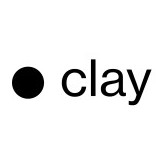
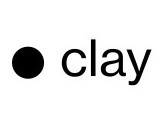
Optimise Images

diff --git a/experience/Netsoc_2019.md b/experience/Netsoc_2019.md
@@ -1,7 +1,7 @@
 ---
 position: "First Year Rep"
 company: "UCC Netsoc"
-company_logo: "UCC_Netsoc.png"
+company_logo: "UCC_Netsoc.jpg"
 dateFrom: "2019-09-01"
 dateTo: "2020-06-01"
 summary: "During my first year in University, I was elected to be the First Year Rep OCM on the committee, in this position I focued on advertising the society to other First Years and making exciting events targeted to other first years. University College Cork's Netsoc Society (the Networking, Gaming and Technology Society) runs a digital services network and provides educational opportunities for its almost 2,000 members as well as weekly gaming and social events.

diff --git a/experience/Netsoc_2020.md b/experience/Netsoc_2020.md
@@ -1,7 +1,7 @@
 ---
 position: "OCM"
 company: "UCC Netsoc"
-company_logo: "UCC_Netsoc.png"
+company_logo: "UCC_Netsoc.jpg"
 dateFrom: "2020-06-01"
 dateTo: "2021-06-01"
 summary: "On my second year on the committee, I was elected to be an OCM to help organising both the technical and gaming events throughout the year. University College Cork's Netsoc Society (the Networking, Gaming and Technology Society) runs a digital services network and provides educational opportunities for its almost 2,000 members as well as weekly gaming and social events.

diff --git a/experience/Netsoc_2021.md b/experience/Netsoc_2021.md
@@ -1,7 +1,7 @@
 ---
 position: "Chairperson"
 company: "UCC Netsoc"
-company_logo: "UCC_Netsoc.png"
+company_logo: "UCC_Netsoc.jpg"
 dateFrom: "2021-06-01"
 dateTo: "2022-06-01"
 summary: "On my third year on the committee, I was elected to be chairperson and lead the Society through the 2021/22 Academic Year. University College Cork's Netsoc Society (the Networking, Gaming and Technology Society) runs a digital services network and provides educational opportunities for its almost 2,000 members as well as weekly gaming and social events.
